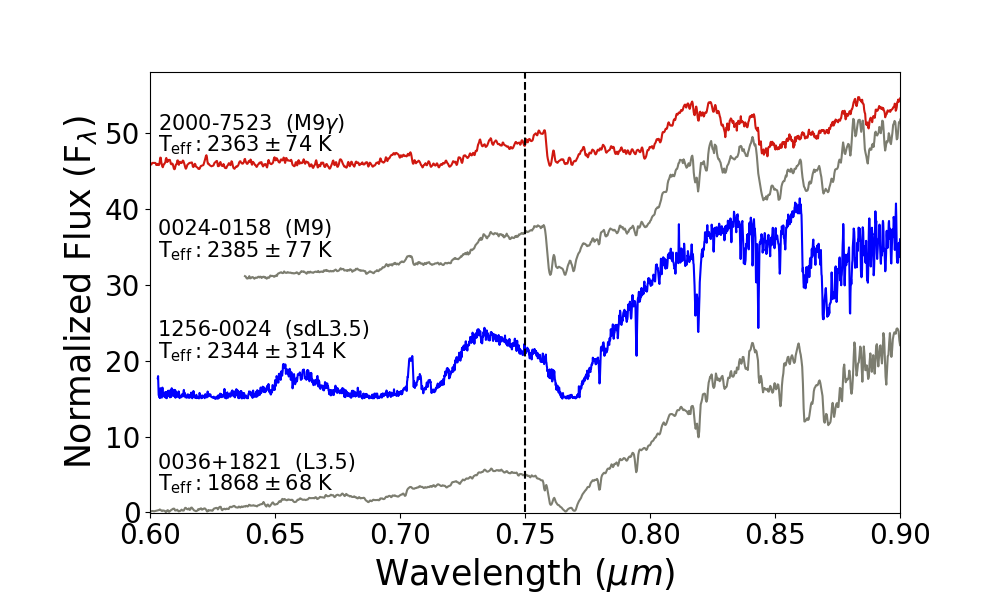
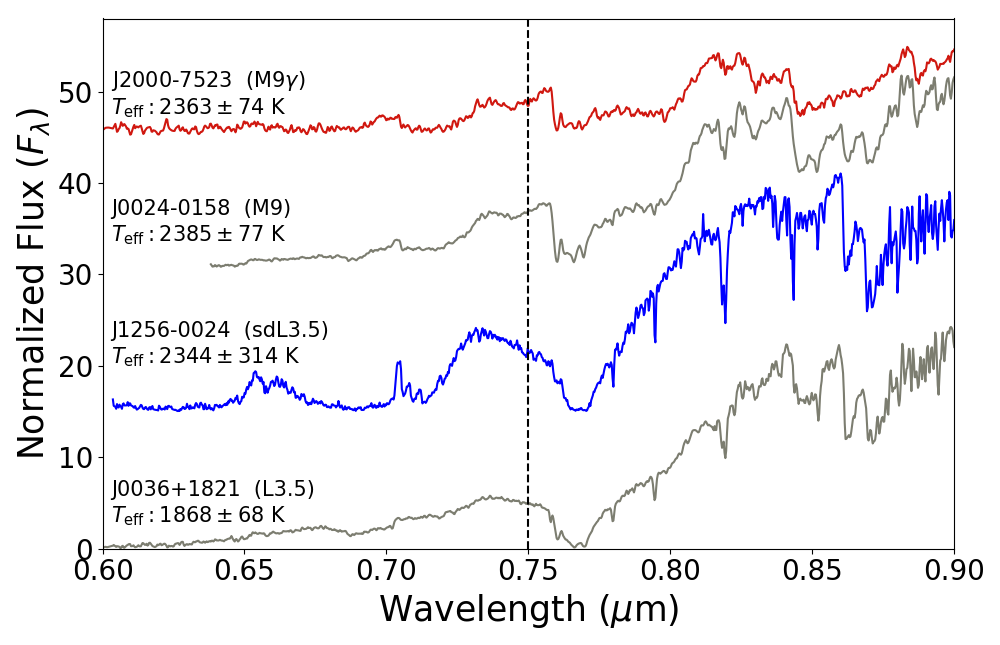
Using new smoothed spectra.

diff --git a/RedOpticalComparison.py b/RedOpticalComparison.py
@@ -5,19 +5,26 @@ import matplotlib.pyplot as plt
 # ------------------------------------------------------------------------------------
 # ------------------- Read in Spectra and Photometry files ---------------------------
 # ------------------------------------------------------------------------------------
-# Read  all in as pandas dataframes
-df_1256 = pd.read_csv('Data/correctpi1256-0224 (L3.5sd) SED.txt', sep=" ", comment='#', header=None,
-                      names=["w", "f", "err"])
-
+# Read all in as pandas dataframes. Jonathan's post smooth is sep= ","
+df_1256 = pd.read_csv('Data/Smoothed_data/Red_optical_comp_smoothed/correctpi1256-0224 (L3.5sd) SED_smoothed.txt',
+                      sep=",", comment='#', header=None, names=["w", "f", "err"])
 # -------------- Comparison objects of the same Teff ----------------------------------
-df_young = pd.read_csv('Data/teff2000-7523 (M9gamma) SED.txt', sep=" ", comment='#', header=None,
-                       names=["w", "f", "err"])
-df_field = pd.read_csv('Data/teff0024-0158 (M9.5) SED.txt', sep=" ", comment='#', header=None, names=["w", "f", "err"])
+df_young = pd.read_csv('Data/Smoothed_data/Red_optical_comp_smoothed/teff2000-7523 (M9gamma) SED_updated_smoothed.txt',
+                       sep=",", comment='#', header=None, names=["w", "f", "err"])
+df_field = pd.read_csv('Data/Smoothed_data/Red_optical_comp_smoothed/teff0024-0158 (M9.5) SED_smoothed.txt', sep=",",
+                       comment='#', header=None, names=["w", "f", "err"])
 
 # ----------------------- Same SpT ----------------------------------------------------
-df_fieldspt = pd.read_csv('Data/NotUsingAsCompariosn/0036+1821 (L3.5) SED.txt', sep=" ", comment='#', header=None,
-                       names=["w", "f", "err"])
+df_fieldspt = pd.read_csv('Data/Smoothed_data/Red_optical_comp_smoothed/0036+1821 (L3.5) SED_smoothed.txt', sep=",",
+                          comment='#', header=None, names=["w", "f", "err"])
 
+# ------------------------------------------------------------------------------------
+# ------------------- Fix files to read all coulmns as Floats-------------------------
+# ------------------------------------------------------------------------------------
+df_1256 =df_1256.astype(float)
+df_young = df_young.astype(float)
+df_field = df_field.astype(float)
+df_fieldspt = df_fieldspt.astype(float)
 # -------------------------------------------------------------------------------------
 # ------------------------- Normalize the spectra -------------------------------------
 # -------------------------------------------------------------------------------------
@@ -42,6 +49,10 @@ fig = plt.figure()
 ax1 = fig.add_subplot(111)
 fig.set_size_inches(10, 6.45)
 plt.gcf().subplots_adjust(bottom=0.15, left=0.15)
+ax1.xaxis.set_tick_params(length=5, width=1.5)  #Make ticks longer and thicker
+ax1.yaxis.set_tick_params(length=5, width=1.5)
+for axis in ['top','bottom','left','right']:  #Thicken the frame
+  ax1.spines[axis].set_linewidth(1.5)
 plt.xlim([0.60, 0.90])
 plt.ylim([-0.01, 58])
 

diff --git a/compariosn_Lbol.py b/compariosn_Lbol.py
@@ -30,8 +30,8 @@ df_field_phot = pd.read_csv('Data/1048-3956 (M9) phot.txt', sep=" ", comment='#'
 # -----------------------------------------------------------------------------------------
 # ---------------------------------- Create a Blackbody -----------------------------------
 # -----------------------------------------------------------------------------------------
-#Solve for temp from the Lbol = log(L/L_solar)
-L_sun = 3.828*10**(26)/(4*np.pi*(3.086*10**17)**2)  # Lsun in W / 4pi(distance of 10pc)^2
+# Solve for temp from the Lbol = log(L/L_solar)
+L_sun = 3.828*10**26/(4*np.pi*(3.086*10**17)**2)  # Lsun in W / 4pi(distance of 10pc)^2
 
 L_1256 = (10**(-3.518)*L_sun)/(((1.03/10)*(2.2657*10**(-9)))**2)  # 10^(Lbol)*L_sun/(radius of 1256/10pc)*(1 Rjup in pc)
 temp_lbol_1256 = (L_1256/(5.670*10**(-8)))**(1.0/4.0)  # 5.670-> stefan-boltzmann constant
@@ -79,9 +79,10 @@ ax1.scatter(df_1256_phot['w'], df_1256_phot['f'], c='k', s=70)
 ax1.scatter(df_1256_phot['w'], df_1256_phot['f'], c='blue', s=50)
 
 # -------- Plot the blackbodies -------------------
-ax1.loglog(wavelengths.to(u.um), flux_lam_scaled_1256, c='blue', ls='dashed', zorder=1, alpha=0.75)
-ax1.loglog(wavelengths.to(u.um), flux_lam_scaled_field, c='#7C7D70', ls='dashed', zorder=1, alpha=0.75)
-ax1.loglog(wavelengths.to(u.um), flux_lam_scaled_young, c='#D01810', ls='dashed', zorder=1, alpha=0.75)
+# Decided not to show in the paper currently
+# ax1.loglog(wavelengths.to(u.um), flux_lam_scaled_1256, c='blue', ls='dashed', zorder=1, alpha=0.75)
+# ax1.loglog(wavelengths.to(u.um), flux_lam_scaled_field, c='#7C7D70', ls='dashed', zorder=1, alpha=0.75)
+# ax1.loglog(wavelengths.to(u.um), flux_lam_scaled_young, c='#D01810', ls='dashed', zorder=1, alpha=0.75)
 
 # ----- Set axes limits, reformat ticks -----------
 plt.xlim([0.33, 24])
